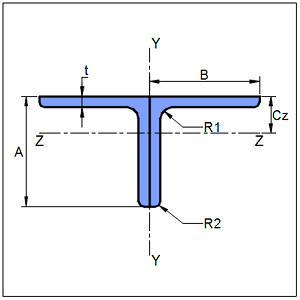
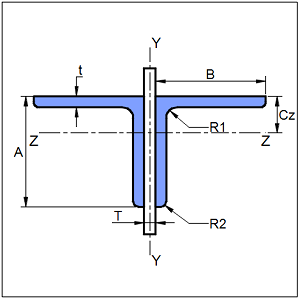
images and changes in dp done

Changed region(s): [[0.0, 0.0, 1.0, 1.0], [0.66, 0.2107, 0.72, 0.2709], [0.51, 0.1204, 0.54, 0.1505]]

diff --git a/design_type/tension_member/tension_bolted.py b/design_type/tension_member/tension_bolted.py
@@ -2190,6 +2190,7 @@ class Tension_bolted(Member):
                                       'B(mm)': round(section_size.flange_width, 2),
                                       't(mm)': round(section_size.web_thickness, 2),
                                       'T(mm)': round(section_size.flange_thickness, 2),
+                                      'Tp(mm)': round(self.plate.thickness_provided, 2),
                                       'FlangeSlope': round(section_size.flange_slope, 2),
                                       'R1(mm)': round(section_size.root_radius, 2),
                                       'R2(mm)': round(section_size.toe_radius, 2),
@@ -2258,6 +2259,7 @@ class Tension_bolted(Member):
                                       'a(mm)': round(section_size.max_leg,2),
                                       'b(mm)': round(section_size.min_leg,2),
                                       't(mm)': round(section_size.thickness,2),
+                                      'Tp(mm)': round(self.plate.thickness_provided, 2),
                                       'R1(mm)': round(section_size.root_radius,2),
                                       'R2(mm)': round(section_size.toe_radius,2),
                                       'Cy(mm)': Cy,
@@ -2288,6 +2290,7 @@ class Tension_bolted(Member):
                                       'a(mm)': round(section_size.max_leg, 2),
                                       'b(mm)': round(section_size.min_leg, 2),
                                       't(mm)': round(section_size.thickness, 2),
+                                      'Tp(mm)': round(self.plate.thickness_provided, 2),
                                       'R1(mm)': round(section_size.root_radius, 2),
                                       'R2(mm)': round(section_size.toe_radius, 2),
                                       'Iz(mm4)': round((Angle_attributes.calc_MomentOfAreaZ(section_size.max_leg,section_size.min_leg,section_size.thickness,self.loc) * 10000), 2),

diff --git a/Common.py b/Common.py
@@ -525,8 +525,8 @@ KEY_DISP_SLENDER = 'Slenderness'
 
 
 KEY_DISP_PLATETHK = 'Thickness (mm)'
-KEY_DISP_DPPLATETHK = 'Plate thickness (mm)'
-
+KEY_DISP_DPPLATETHK = 'Endplate thickness, T (mm)'
+KEY_DISP_DPPLATETHK01 = 'Endplate thickness, Tp (mm)'
 
 DISP_TITLE_TENSION = 'Tension Capacity'
 KEY_DISP_FLANGESPLATE_PREFERENCES = 'Preferences'
@@ -848,8 +848,8 @@ KEY_DISP_Iw = 'Warping Constant, I<sub>w</sub> (cm<sup>6</sup>)'
 KEY_DISP_SOURCE = 'Source'
 KEY_DISP_POISSON_RATIO = 'Poissons ratio, v'
 KEY_DISP_THERMAL_EXP = 'Thermal expansion coeff.a <br>(x10<sup>-6</sup>/ <sup>0</sup>C)'
-KEY_DISP_A= 'A'
-KEY_DISP_B= 'B'
+KEY_DISP_A= 'Long Leg, A (mm)*'
+KEY_DISP_B= 'Short Leg, B (mm)*'
 KEY_DISP_LEG_THK = 'Leg Thickness, t (mm)*'
 KEY_DISP_BASE_PLATE_MATERIAL = 'Material'
 KEY_DISP_BASE_PLATE_FU = 'Ultimate strength, fu (MPa)'

diff --git a/design_type/member.py b/design_type/member.py
@@ -509,7 +509,7 @@ class Member(Main):
         t12 = ('Label_5', KEY_DISP_TOE_R, TYPE_TEXTBOX, None, toe_radius)
         section.append(t12)
 
-        t12 = ('Label_0', KEY_DISP_DPPLATETHK, TYPE_COMBOBOX, VALUES_PLATETHK_CUSTOMIZED, plate_thk)
+        t12 = ('Label_0', KEY_DISP_DPPLATETHK01, TYPE_COMBOBOX, VALUES_PLATETHK_CUSTOMIZED, plate_thk)
         section.append(t12)
 
         t17 = (None, KEY_DISP_SEC_PROP, TYPE_TITLE, None, None)
